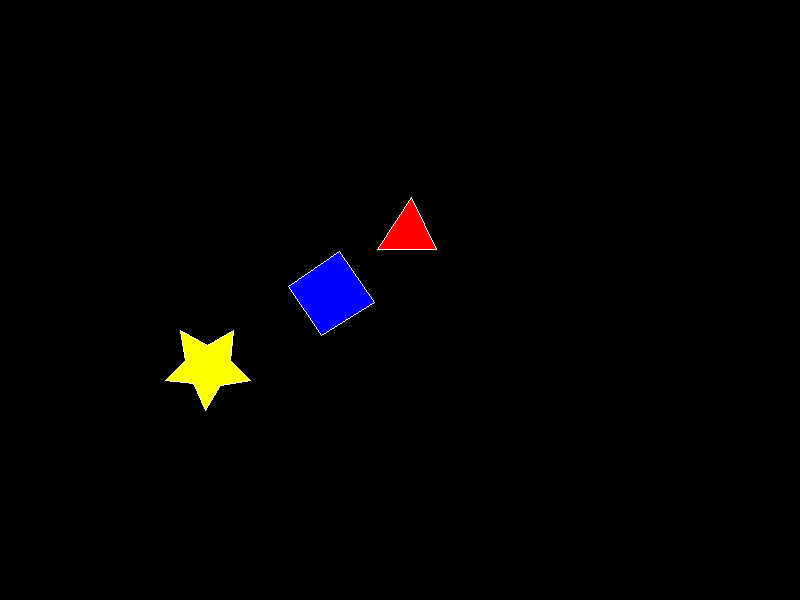
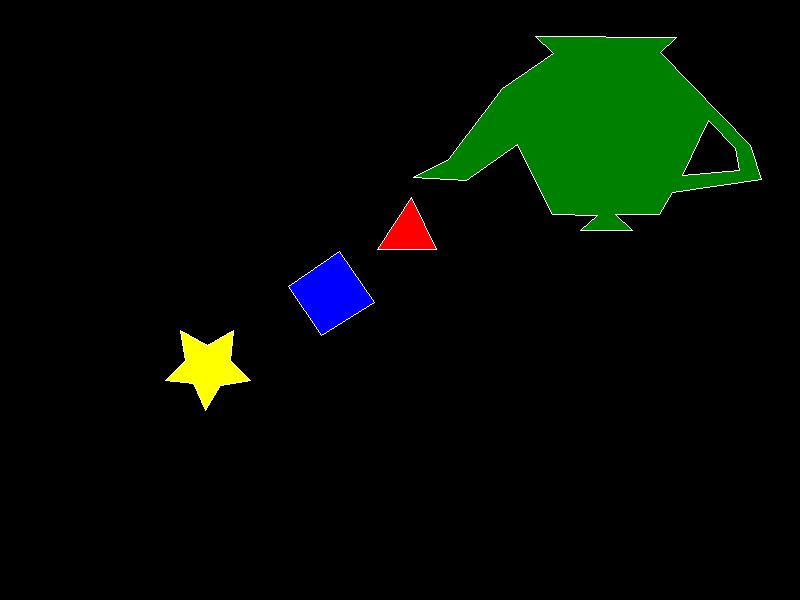
Added poligon 5

Changed region(s): [[0.5, 0.06, 0.9688, 0.39]]

diff --git a/src/main.rs b/src/main.rs
@@ -56,5 +56,45 @@ fn main() {
     framebuffer.set_current_color(Color::WHITE);
     draw_polygon(&mut framebuffer, &polygon3);
 
+    let polygon4 = [
+        Vector2::new(413.0, 177.0),
+        Vector2::new(448.0, 159.0),
+        Vector2::new(502.0, 88.0),
+        Vector2::new(553.0, 53.0),
+        Vector2::new(535.0, 36.0),
+        Vector2::new(676.0, 37.0),
+        Vector2::new(660.0, 52.0),
+        Vector2::new(750.0, 145.0),
+        Vector2::new(761.0, 179.0),
+        Vector2::new(672.0, 192.0),
+        Vector2::new(659.0, 214.0),
+        Vector2::new(615.0, 214.0),
+        Vector2::new(632.0, 230.0),
+        Vector2::new(580.0, 230.0),
+        Vector2::new(597.0, 215.0),
+        Vector2::new(552.0, 214.0),
+        Vector2::new(517.0, 144.0),
+        Vector2::new(466.0, 180.0),
+    ];
+
+    framebuffer.set_current_color(Color::GREEN);
+    fill_polygon(&mut framebuffer, &polygon4);
+
+    framebuffer.set_current_color(Color::WHITE);
+    draw_polygon(&mut framebuffer, &polygon4);
+
+    let polygon5 = [
+        Vector2::new(682.0, 175.0),
+        Vector2::new(708.0, 120.0),
+        Vector2::new(735.0, 148.0),
+        Vector2::new(739.0, 170.0),
+    ];
+
+    framebuffer.set_current_color(Color::BLACK);
+    fill_polygon(&mut framebuffer, &polygon5);
+
+    framebuffer.set_current_color(Color::WHITE);
+    draw_polygon(&mut framebuffer, &polygon5);
+
     framebuffer.render_to_file("out.png");
 }